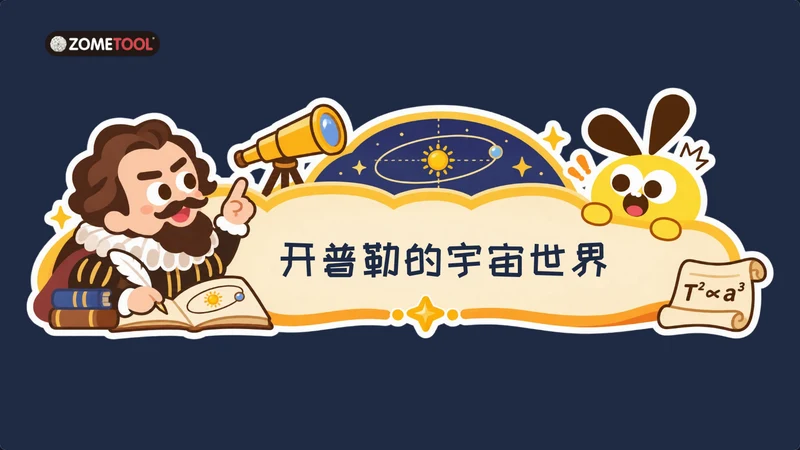
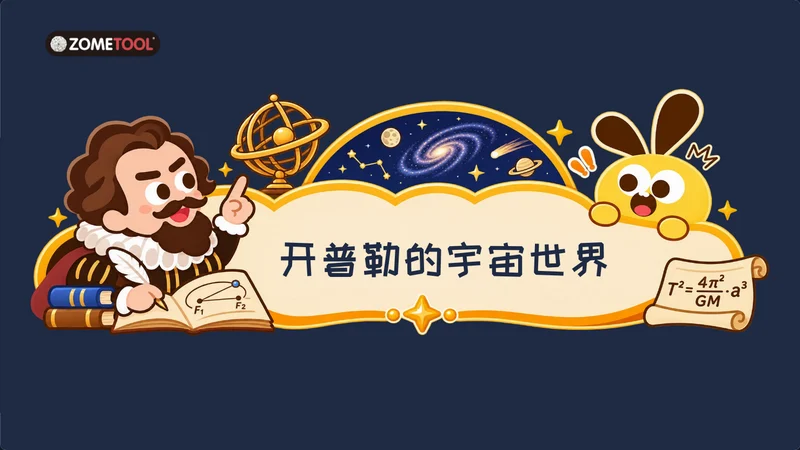
第11节换新封面横幅；第10、11节「课后任务」改为「课后挑战」
Claude-Session: https://claude.ai/code/session_01PcKrhbRj6tJdbuHuUHg6jy

Changed region(s): [[0.0312, 0.1867, 0.9688, 0.7778], [0.3438, 0.5289, 0.75, 0.6222], [0.0938, 0.0622, 0.1562, 0.1244]]

diff --git a/steamkit-course/lesson10-bolatu-duomianti/index.html b/steamkit-course/lesson10-bolatu-duomianti/index.html
@@ -74,7 +74,7 @@
 【互动】先看桌上平摊的 3 个正五边形（中蓝棍），中间还留着一条小缝。请孩子猜，再点"聚拢"：缝合上，鼓成一个角——这是正十二面体的角。再选"4 个"点"聚拢"：第 4 个（红色）放不下，叠在了第 1 个上面。
 【讲解】五边形一个角 108°：3 个是 324°，还差一点点到一圈，所以能鼓起来；4 个是 432°，超过一圈，挤不下。五边形只有 1 种拼法：3 个。
 【预期回答·不要提前说】3 个能鼓起来、4 个挤不下。
-【易错与准备】正五边形用中蓝棍能平平地拼在桌上（五边形孔朝上的那一圈蓝孔）。4 个的情况真实拼不出来，红色那一块是示意。正十二面体留到作业里自己拼。</aside></section>
+【易错与准备】正五边形用中蓝棍能平平地拼在桌上（五边形孔朝上的那一圈蓝孔）。4 个的情况真实拼不出来，红色那一块是示意。正十二面体留到课后挑战里自己拼。</aside></section>
 <section class="slide dark" data-id="fold-hexagon" data-title="猜想：3 个正六边形能鼓起来吗？" data-sec="为什么只有五种" data-minutes="2"  hidden><h2>猜想：3 个正六边形能鼓起来吗？</h2><div class="zfold-host" data-k="6" data-n="3" data-color="blue" style="left:60px;top:140px;width:1480px;height:620px" role="img" aria-label="Zometool 拼搭：3 个围着一个球，拖动旋转"></div><output class="zf-answer" hidden></output><div class="controls" style=""><button class="action " data-zf-fold>聚拢</button><button class="action quiet icon-btn" data-zf-home aria-label="回正面" title="回正面">⟲</button></div><aside class="notes">【节奏】2 分钟。
 【互动】图上是用中蓝棍平摊的 3 个正六边形，围着一个球。请孩子猜，再点"聚拢"：平平的，鼓不起来。
 【讲解】六边形一个角 120°：3 个正好 360°，一圈铺满，就平了——和 4 个正方形、6 个三角形一样。所以六边形围不出正多面体，却正好能铺满地面（蜂巢）。
@@ -82,7 +82,7 @@
 【易错与准备】正六边形能用中蓝棍拼（三角形孔朝上，绕一圈的 6 个长方形孔）。顶点处少于 3 个面围不成角，所以不讨论 2 个。</aside></section>
 <section class="slide dark" data-id="five" data-title="能鼓起来的，正好 5 种" data-sec="为什么只有五种" data-minutes="1"  hidden><h2>能鼓起来的，正好 5 种</h2><div class="five-unit" style="left:75px"><div class="zfold-host mini" data-static data-k="3" data-n="3" data-color="blue" data-fold-color="green" data-elev="30" data-fit="0.95" style="left:0;top:0;width:275px;height:235px"></div><span class="mini-count">3 个</span><span class="grow-arrow">↓</span><div class="zome-host" data-zome="tet" style="left:0;top:335px;width:275px;height:245px" role="img" tabindex="0" aria-label="正四面体，拖动或方向键旋转"></div><p>正四面体</p></div><div class="five-unit" style="left:367px"><div class="zfold-host mini" data-static data-k="3" data-n="4" data-color="blue" data-fold-color="green" data-elev="30" data-fit="0.95" style="left:0;top:0;width:275px;height:235px"></div><span class="mini-count">4 个</span><span class="grow-arrow">↓</span><div class="zome-host" data-zome="oct" style="left:0;top:335px;width:275px;height:245px" role="img" tabindex="0" aria-label="正八面体，拖动或方向键旋转"></div><p>正八面体</p></div><div class="five-unit" style="left:659px"><div class="zfold-host mini" data-static data-k="3" data-n="5" data-color="blue" data-elev="30" data-fit="0.95" style="left:0;top:0;width:275px;height:235px"></div><span class="mini-count">5 个</span><span class="grow-arrow">↓</span><div class="zome-host" data-zome="ico" style="left:0;top:335px;width:275px;height:245px" role="img" tabindex="0" aria-label="正二十面体，拖动或方向键旋转"></div><p>正二十面体</p></div><div class="five-unit" style="left:951px"><div class="zfold-host mini" data-static data-k="4" data-n="3" data-color="blue" data-elev="30" data-fit="0.95" style="left:0;top:0;width:275px;height:235px"></div><span class="mini-count">3 个</span><span class="grow-arrow">↓</span><div class="zome-host" data-zome="cubeB" style="left:0;top:335px;width:275px;height:245px" role="img" tabindex="0" aria-label="立方体，拖动或方向键旋转"></div><p>立方体</p></div><div class="five-unit" style="left:1243px"><div class="zfold-host mini" data-static data-k="5" data-n="3" data-color="blue" data-elev="30" data-fit="0.95" style="left:0;top:0;width:275px;height:235px"></div><span class="mini-count">3 个</span><span class="grow-arrow">↓</span><div class="zome-host" data-zome="dod" style="left:0;top:335px;width:275px;height:245px" role="img" tabindex="0" aria-label="正十二面体，拖动或方向键旋转"></div><p>正十二面体</p></div><div class="controls" style=""><button class="action " data-reveal-five>伙伴集合！</button></div><aside class="notes">【节奏】1 分钟。
 【互动】孩子说出刚才剩下的五种顶点拼法，逐一点亮对应完整形状。
-【讲解】上面是刚才聚拢出来的 5 种 Zometool 角，点一次出来一位完整的伙伴。5 种顶点拼法各对应一个完整的凸正多面体，今天亲手搭出了其中三位（3、4、5 个三角形）；立方体和正十二面体留到作业里自己拼。
+【讲解】上面是刚才聚拢出来的 5 种 Zometool 角，点一次出来一位完整的伙伴。5 种顶点拼法各对应一个完整的凸正多面体，今天亲手搭出了其中三位（3、4、5 个三角形）；立方体和正十二面体留到课后挑战里自己拼。
 【预期回答·不要提前说】3、4、5个三角形；3个正方形；3个正五边形。
 【易错与准备】范围是凸正多面体，不等于所有多面体只有五种；局部拼法必须在每个顶点一致才成立。</aside></section>
 <section class="slide dark" data-id="tessellation" data-title="知识拓展：密铺" data-sec="拓展" data-minutes="1.5"  hidden><h2>知识拓展：密铺</h2><div class="zome-host tile" data-zome="tile3" data-stage="1" style="left:70px;top:170px;width:470px;height:560px" role="img" aria-label="中蓝棍正三角形密铺"></div><div class="zome-host tile" data-zome="tile4" data-stage="1" style="left:565px;top:170px;width:470px;height:560px" role="img" aria-label="中蓝棍正方形密铺"></div><div class="zome-host tile" data-zome="tile6" data-stage="1" style="left:1060px;top:170px;width:470px;height:560px" role="img" aria-label="中蓝棍正六边形密铺"></div><div class="controls" style=""><button class="action " data-tile-more>再拼一圈</button><button class="action quiet" data-tile-home>回到开始</button></div><aside class="notes">【节奏】1.5 分钟。拓展页，时间紧可跳过，不影响主课。
@@ -90,12 +90,12 @@
 【讲解】刚才鼓不起来的三种，平平地铺开，不留空、不重叠地铺满地面，这叫「密铺」。能单独密铺的正多边形正好三种：正三角形、正方形、正六边形。生活里到处是密铺：地砖、蜂巢。
 【预期回答·不要提前说】越拼越大、没有漏洞、蜂巢就是这个。
 【易错与准备】三种都用中蓝棍（三角形和六边形：三角形孔朝上，用腰上那一圈长方形孔）。正五边形不能单独密铺（108° 凑不齐整圈），别和十二面体混在一起。</aside></section>
-<section class="slide dark chapter" data-id="chapter-finish" data-title="把发现带到生活里" data-sec="回顾与任务" data-minutes="0.25"  hidden><h2>把发现带到生活里</h2><span class="chapter-number">3</span><img class="art" src="a/ch3_life.png" alt="" style="left:920px;top:210px;width:600px;height:490px" draggable="false"><aside class="notes">【节奏】0.25 分钟。
+<section class="slide dark chapter" data-id="chapter-finish" data-title="把发现带到生活里" data-sec="回顾与挑战" data-minutes="0.25"  hidden><h2>把发现带到生活里</h2><span class="chapter-number">3</span><img class="art" src="a/ch3_life.png" alt="" style="left:920px;top:210px;width:600px;height:490px" draggable="false"><aside class="notes">【节奏】0.25 分钟。
 【互动】老师展示孩子完成的两个模型。
 【讲解】拿着自己的作品，找一找真实世界里有没有它的伙伴。
 【预期回答·不要提前说】愿意分享和寻找生活例子。
 【易错与准备】本章轻量收尾，不新增抽象术语。</aside></section>
-<section class="slide dark" data-id="nature" data-title="这两块石头，像哪位伙伴？" data-sec="回顾与任务" data-minutes="1.5"  hidden><h2>这两块石头，像哪位伙伴？</h2><img class="art zoomable" src="a/pyrite.webp" alt="黄铁矿" style="left:90px;top:170px;width:440px;height:440px;border-radius:24px" draggable="false"><div class="zome-host nat-model" data-zome="cubeB" style="left:545px;top:200px;width:250px;height:380px" role="img" tabindex="0" aria-label="立方体，拖动或方向键旋转"></div><img class="art zoomable" src="a/fluorite.webp" alt="萤石" style="left:820px;top:170px;width:440px;height:440px;border-radius:24px" draggable="false"><div class="zome-host nat-model" data-zome="oct" style="left:1275px;top:200px;width:250px;height:380px" role="img" tabindex="0" aria-label="正八面体，拖动或方向键旋转"></div><p class="photo-label light" style="left:90px;width:440px;top:630px">黄铁矿</p><p class="photo-label light" style="left:820px;width:440px;top:630px">萤石</p><p class="photo-label light nat-name" style="left:545px;width:250px;top:630px">立方体</p><p class="photo-label light nat-name" style="left:1275px;width:250px;top:630px">正八面体</p><div class="controls" style=""><button class="action " data-nature>揭晓答案</button></div><aside class="notes">【节奏】1.5 分钟。
+<section class="slide dark" data-id="nature" data-title="这两块石头，像哪位伙伴？" data-sec="回顾与挑战" data-minutes="1.5"  hidden><h2>这两块石头，像哪位伙伴？</h2><img class="art zoomable" src="a/pyrite.webp" alt="黄铁矿" style="left:90px;top:170px;width:440px;height:440px;border-radius:24px" draggable="false"><div class="zome-host nat-model" data-zome="cubeB" style="left:545px;top:200px;width:250px;height:380px" role="img" tabindex="0" aria-label="立方体，拖动或方向键旋转"></div><img class="art zoomable" src="a/fluorite.webp" alt="萤石" style="left:820px;top:170px;width:440px;height:440px;border-radius:24px" draggable="false"><div class="zome-host nat-model" data-zome="oct" style="left:1275px;top:200px;width:250px;height:380px" role="img" tabindex="0" aria-label="正八面体，拖动或方向键旋转"></div><p class="photo-label light" style="left:90px;width:440px;top:630px">黄铁矿</p><p class="photo-label light" style="left:820px;width:440px;top:630px">萤石</p><p class="photo-label light nat-name" style="left:545px;width:250px;top:630px">立方体</p><p class="photo-label light nat-name" style="left:1275px;width:250px;top:630px">正八面体</p><div class="controls" style=""><button class="action " data-nature>揭晓答案</button></div><aside class="notes">【节奏】1.5 分钟。
 【互动】这两块是真实的石头（矿物），不是人做的。请孩子看一看、说一说：它们各像今天的哪位伙伴？说完点"揭晓答案"，旁边出现对应的 Zometool 模型。可以举起自己的八面体对照萤石。
 【讲解】黄铁矿常常长成一个个小立方体；萤石常常长成正八面体。石头里的小颗粒一层一层整整齐齐地排好，就会自己长出这些形状。
 【预期回答·不要提前说】黄铁矿像立方体（方块）；萤石像八面体（两个金字塔对在一起）。
@@ -113,13 +113,13 @@
 【易错与准备】棱最容易数错：数棍子，数过的用手指按住，或者转着数。二十面体棍子多，可以和同伴分工。</aside></section>
 <section class="slide dark" data-id="euler-summary" data-title="知识拓展：欧拉定理" data-sec="欧拉定理" data-minutes="1.5"  hidden><h2>知识拓展：欧拉定理</h2><div class="euler-big"><span class="eu"><b>V</b><i>顶点</i></span><span class="op">+</span><span class="eu"><b>F</b><i>面</i></span><span class="op">−</span><span class="eu"><b>E</b><i>棱</i></span><span class="op">=</span><span class="eu two"><b>2</b><i>&nbsp;</i></span></div><aside class="notes">【节奏】1.5 分钟。
 【互动】齐读：顶点加面，减去棱，等于 2。V、F、E 下面分别写着顶点、面、棱。
-【讲解】这叫欧拉定理（也叫欧拉公式），是 200 多年前数学家欧拉发现的。今天我们从"为什么只有 5 种"出发，聚拢三角形、正方形、五边形、六边形，发现能鼓起来的拼法正好 5 种；又亲手搭了其中三位，数出了这个规律。它对别的多面体也成立吗？这就是课后任务。
+【讲解】这叫欧拉定理（也叫欧拉公式），是 200 多年前数学家欧拉发现的。今天我们从"为什么只有 5 种"出发，聚拢三角形、正方形、五边形、六边形，发现能鼓起来的拼法正好 5 种；又亲手搭了其中三位，数出了这个规律。它对别的多面体也成立吗？这就是课后挑战。
 【预期回答·不要提前说】能复述"顶点加面减棱等于 2"。
 【易错与准备】只对"没有洞"的多面体成立；不要求证明。</aside></section>
-<section class="slide dark" data-id="homework" data-title="课后任务" data-sec="欧拉定理" data-minutes="2"  hidden><h2>课后任务</h2><div class="zome-host" data-zome="cubeB" data-intro style="left:200px;top:120px;width:560px;height:430px" role="img" tabindex="0" aria-label="立方体，拖动或方向键旋转"></div><div class="zome-host" data-zome="dod" data-intro style="left:840px;top:120px;width:560px;height:430px" role="img" tabindex="0" aria-label="正十二面体，拖动或方向键旋转"></div><div class="goal" style="top:575px"><span class="goal-n">1</span><p><b>拼一拼</b>：用中蓝棍拼出立方体和正十二面体。</p></div><div class="goal" style="top:705px"><span class="goal-n">2</span><p><b>查一查</b>：V + F − E = 2，对所有多面体都成立吗？</p></div><aside class="notes">【节奏】2 分钟布置。
+<section class="slide dark" data-id="homework" data-title="课后挑战" data-sec="欧拉定理" data-minutes="2"  hidden><h2>课后挑战</h2><div class="zome-host" data-zome="cubeB" data-intro style="left:200px;top:120px;width:560px;height:430px" role="img" tabindex="0" aria-label="立方体，拖动或方向键旋转"></div><div class="zome-host" data-zome="dod" data-intro style="left:840px;top:120px;width:560px;height:430px" role="img" tabindex="0" aria-label="正十二面体，拖动或方向键旋转"></div><div class="goal" style="top:575px"><span class="goal-n">1</span><p><b>拼一拼</b>：用中蓝棍拼出立方体和正十二面体。</p></div><div class="goal" style="top:705px"><span class="goal-n">2</span><p><b>查一查</b>：V + F − E = 2，对所有多面体都成立吗？</p></div><aside class="notes">【节奏】2 分钟布置。
 【互动】左边是立方体，右边是正十二面体，都可以拖动转着看。
-【任务 1（设计制作）】课上没拼的两位伙伴：立方体（3 个正方形围一个角，白球 8、中蓝棍 12）和正十二面体（3 个正五边形围一个角，白球 20、中蓝棍 30）。提示：先拼一个面，再按"每个角都是 3 个"往外长。下周带回来：两件作品的照片。
-【任务 2（探究）】先数自己拼的立方体和正十二面体，看是不是也等于 2；再拼一个不是正多面体的形状（比如四棱锥、三棱柱，或者把两个四面体粘在一起），数一数、算一算。下周带回来：一张表格（形状、顶点、棱、面、V+F−E）和你的结论。
+【挑战 1（设计制作）】课上没拼的两位伙伴：立方体（3 个正方形围一个角，白球 8、中蓝棍 12）和正十二面体（3 个正五边形围一个角，白球 20、中蓝棍 30）。提示：先拼一个面，再按"每个角都是 3 个"往外长。下周带回来：两件作品的照片。
+【挑战 2（探究）】先数自己拼的立方体和正十二面体，看是不是也等于 2；再拼一个不是正多面体的形状（比如四棱锥、三棱柱，或者把两个四面体粘在一起），数一数、算一算。下周带回来：一张表格（形状、顶点、棱、面、V+F−E）和你的结论。
 【预期结论·不要提前说】立方体 8+6−12=2，正十二面体 20+12−30=2；四棱锥 5+5−8=2，三棱柱 6+5−9=2——只要形状里没有"洞"，都是 2。如果有孩子拼出中间带洞的形状（像一个方框圈），会得到 0，要表扬，这是很厉害的发现。
 【易错与准备】零件不够时先拼立方体；正十二面体最多用到 30 根中蓝棍。</aside></section>
 

diff --git a/steamkit-course/lesson11-kaipule-yuzhou/index.html b/steamkit-course/lesson11-kaipule-yuzhou/index.html
@@ -1,5 +1,5 @@
 <!doctype html><html lang="zh-CN"><head><meta charset="utf-8"><meta name="viewport" content="width=device-width,initial-scale=1,viewport-fit=cover"><title>开普勒的宇宙世界 · Zometool 拼搭课</title><link rel="icon" href="data:,"><link rel="stylesheet" href="lesson.css?v=6"></head><body><div id="app"><div id="viewport"><main id="stage" aria-label="课件">
-<section class="slide dark cover" data-id="cover" data-title="开普勒的宇宙世界" data-sec="开场" data-minutes="0.5"  hidden><h2>开普勒的宇宙世界</h2><img class="art" src="a/zometool.webp" alt="" style="left:90px;top:55px;width:230px;height:65px" draggable="false"><img class="art" src="a/cover_banner.webp" alt="" style="left:40px;top:175px;width:1520px;height:507px" draggable="false"><div class="banner-text k11" style="left:450px;top:470px;width:880px"><h1>开普勒的宇宙世界</h1></div><aside class="notes">【节奏】0.5 分钟，开播前可先展示。
+<section class="slide dark cover" data-id="cover" data-title="开普勒的宇宙世界" data-sec="开场" data-minutes="0.5"  hidden><h2>开普勒的宇宙世界</h2><img class="art" src="a/zometool.webp" alt="" style="left:90px;top:55px;width:230px;height:65px" draggable="false"><img class="art" src="a/cover_banner.webp?v=2" alt="" style="left:40px;top:175px;width:1520px;height:507px" draggable="false"><div class="banner-text k11" style="left:450px;top:470px;width:880px"><h1>开普勒的宇宙世界</h1></div><aside class="notes">【节奏】0.5 分钟，开播前可先展示。
 【互动】问孩子：画面里的这位叔叔在干什么？（拿着望远镜看星星、在书里画轨道。）
 【讲解】欢迎来到 SteamKit 直播课！他叫开普勒，400 多年前的天文学家。今天我们要听他的大胆猜想，还要用上节课的 5 位伙伴，一个套一个，搭出一个"套娃宇宙"。
 【易错与准备】封面是卡通形象；纸卷上的公式是开普勒后来发现的行星规律，不用讲。</aside></section>
@@ -88,9 +88,9 @@
 【预期回答·不要提前说】8 个角都在十二面体上。
 【易错与准备】红色中棍也是长方形接口；十二面体的每个面是五边形。</aside></section>
 
-<section class="slide dark" data-id="homework" data-title="课后任务" data-sec="回顾与任务" data-minutes="2"  hidden><h2>课后任务</h2><div class="zome-host" data-zome="kepMask" data-stage="31" data-intro data-fit="1.25" style="left:300px;top:110px;width:1000px;height:460px" role="img" tabindex="0" aria-label="完整套娃，拖动旋转"></div><div class="goal" style="top:575px"><span class="goal-n">1</span><p><b>拼一拼</b>：套上立方体和十二面体，说出 5 层的名字。</p></div><div class="goal" style="top:705px"><span class="goal-n">2</span><p><b>数一数</b>：哪两层共用了白球？各共用几个？</p></div><aside class="notes">【节奏】2 分钟布置。
-【任务 1（设计制作）】按课上的第 5、6 步，把立方体（白球 4、黄色长棍 12）和十二面体（白球 12、红色中棍 30）套上去。拍一段视频，从里到外说出 5 层的名字。
-【任务 2（探究）】数一数：哪两层用的是同一批白球？各共用几个？下周带回来：你的答案和理由。
+<section class="slide dark" data-id="homework" data-title="课后挑战" data-sec="回顾与挑战" data-minutes="2"  hidden><h2>课后挑战</h2><div class="zome-host" data-zome="kepMask" data-stage="31" data-intro data-fit="1.25" style="left:300px;top:110px;width:1000px;height:460px" role="img" tabindex="0" aria-label="完整套娃，拖动旋转"></div><div class="goal" style="top:575px"><span class="goal-n">1</span><p><b>拼一拼</b>：套上立方体和十二面体，说出 5 层的名字。</p></div><div class="goal" style="top:705px"><span class="goal-n">2</span><p><b>数一数</b>：哪两层共用了白球？各共用几个？</p></div><aside class="notes">【节奏】2 分钟布置。
+【挑战 1（设计制作）】按课上的第 5、6 步，把立方体（白球 4、黄色长棍 12）和十二面体（白球 12、红色中棍 30）套上去。拍一段视频，从里到外说出 5 层的名字。
+【挑战 2（探究）】数一数：哪两层用的是同一批白球？各共用几个？下周带回来：你的答案和理由。
 【预期结论·不要提前说】四面体和立方体共用 4 个白球；立方体和十二面体共用 8 个；四面体的 4 个角也都在十二面体上。二十面体和八面体、八面体和四面体不共用白球（里面一层的球在外面一层的棱上）。
 【易错与准备】零件不够的孩子，搭到能搭的那一层就好；下节课开头请孩子带着套娃来展示。</aside></section>
 

diff --git a/steamkit-course/courseware/index.html b/steamkit-course/courseware/index.html
@@ -65,7 +65,7 @@ const LESSONS = [
   { no: 3, title: "六瓣的奇迹", q: "为什么雪花都是六个瓣？", href: "../lesson03-liuban-qiji/", img: "img/l03.webp?v=2", pages: 28 },
   { no: 5, title: "空间大力士", q: "谁是稳定性之王？三角形！", href: "../lesson05-kongjian-dalishi/", img: "img/l05.webp", pages: 28 },
   { no: 10, title: "世界的五张王牌", q: "为什么正多面体只有五种？", href: "../lesson10-bolatu-duomianti/", img: "img/l10.webp?v=6", pages: 22 },
-  { no: 11, title: "开普勒的宇宙世界", q: "5 种形状，套出一个宇宙", href: "../lesson11-kaipule-yuzhou/", img: "img/l11.webp?v=2", pages: 20 },
+  { no: 11, title: "开普勒的宇宙世界", q: "5 种形状，套出一个宇宙", href: "../lesson11-kaipule-yuzhou/", img: "img/l11.webp?v=3", pages: 20 },
 ];
 const grid = document.getElementById("grid");
 LESSONS.sort((a, b) => a.no - b.no).forEach((l) => {
